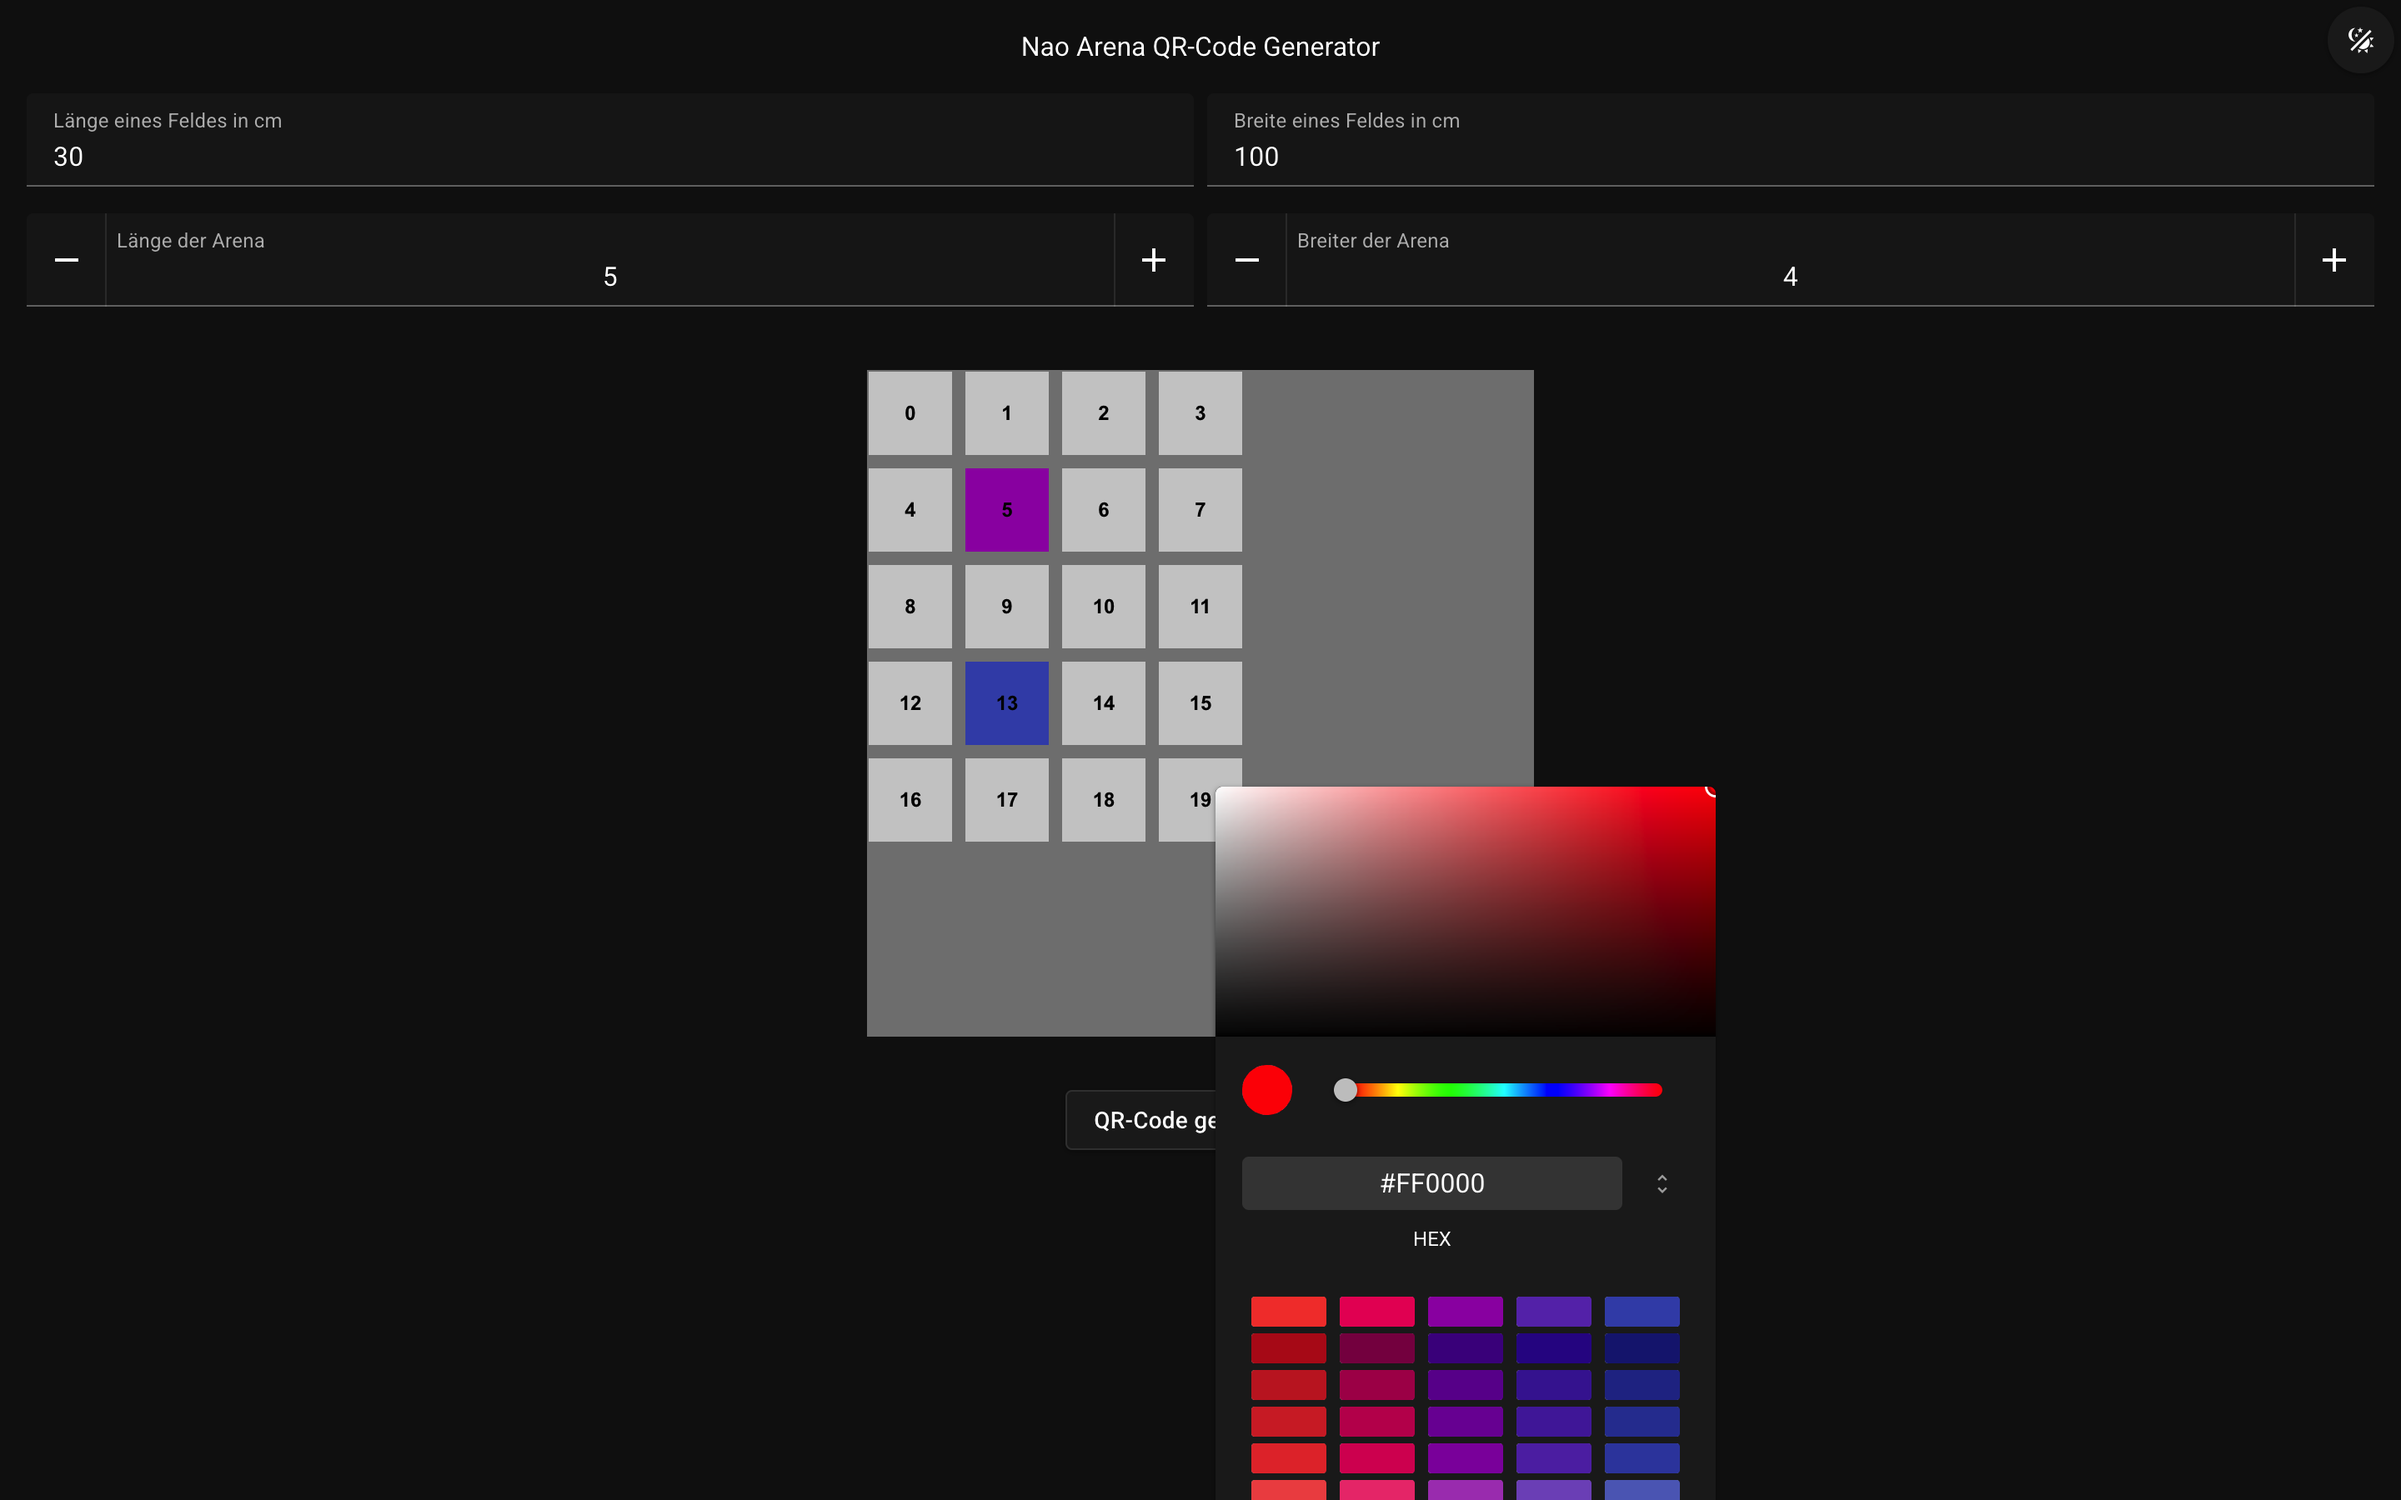
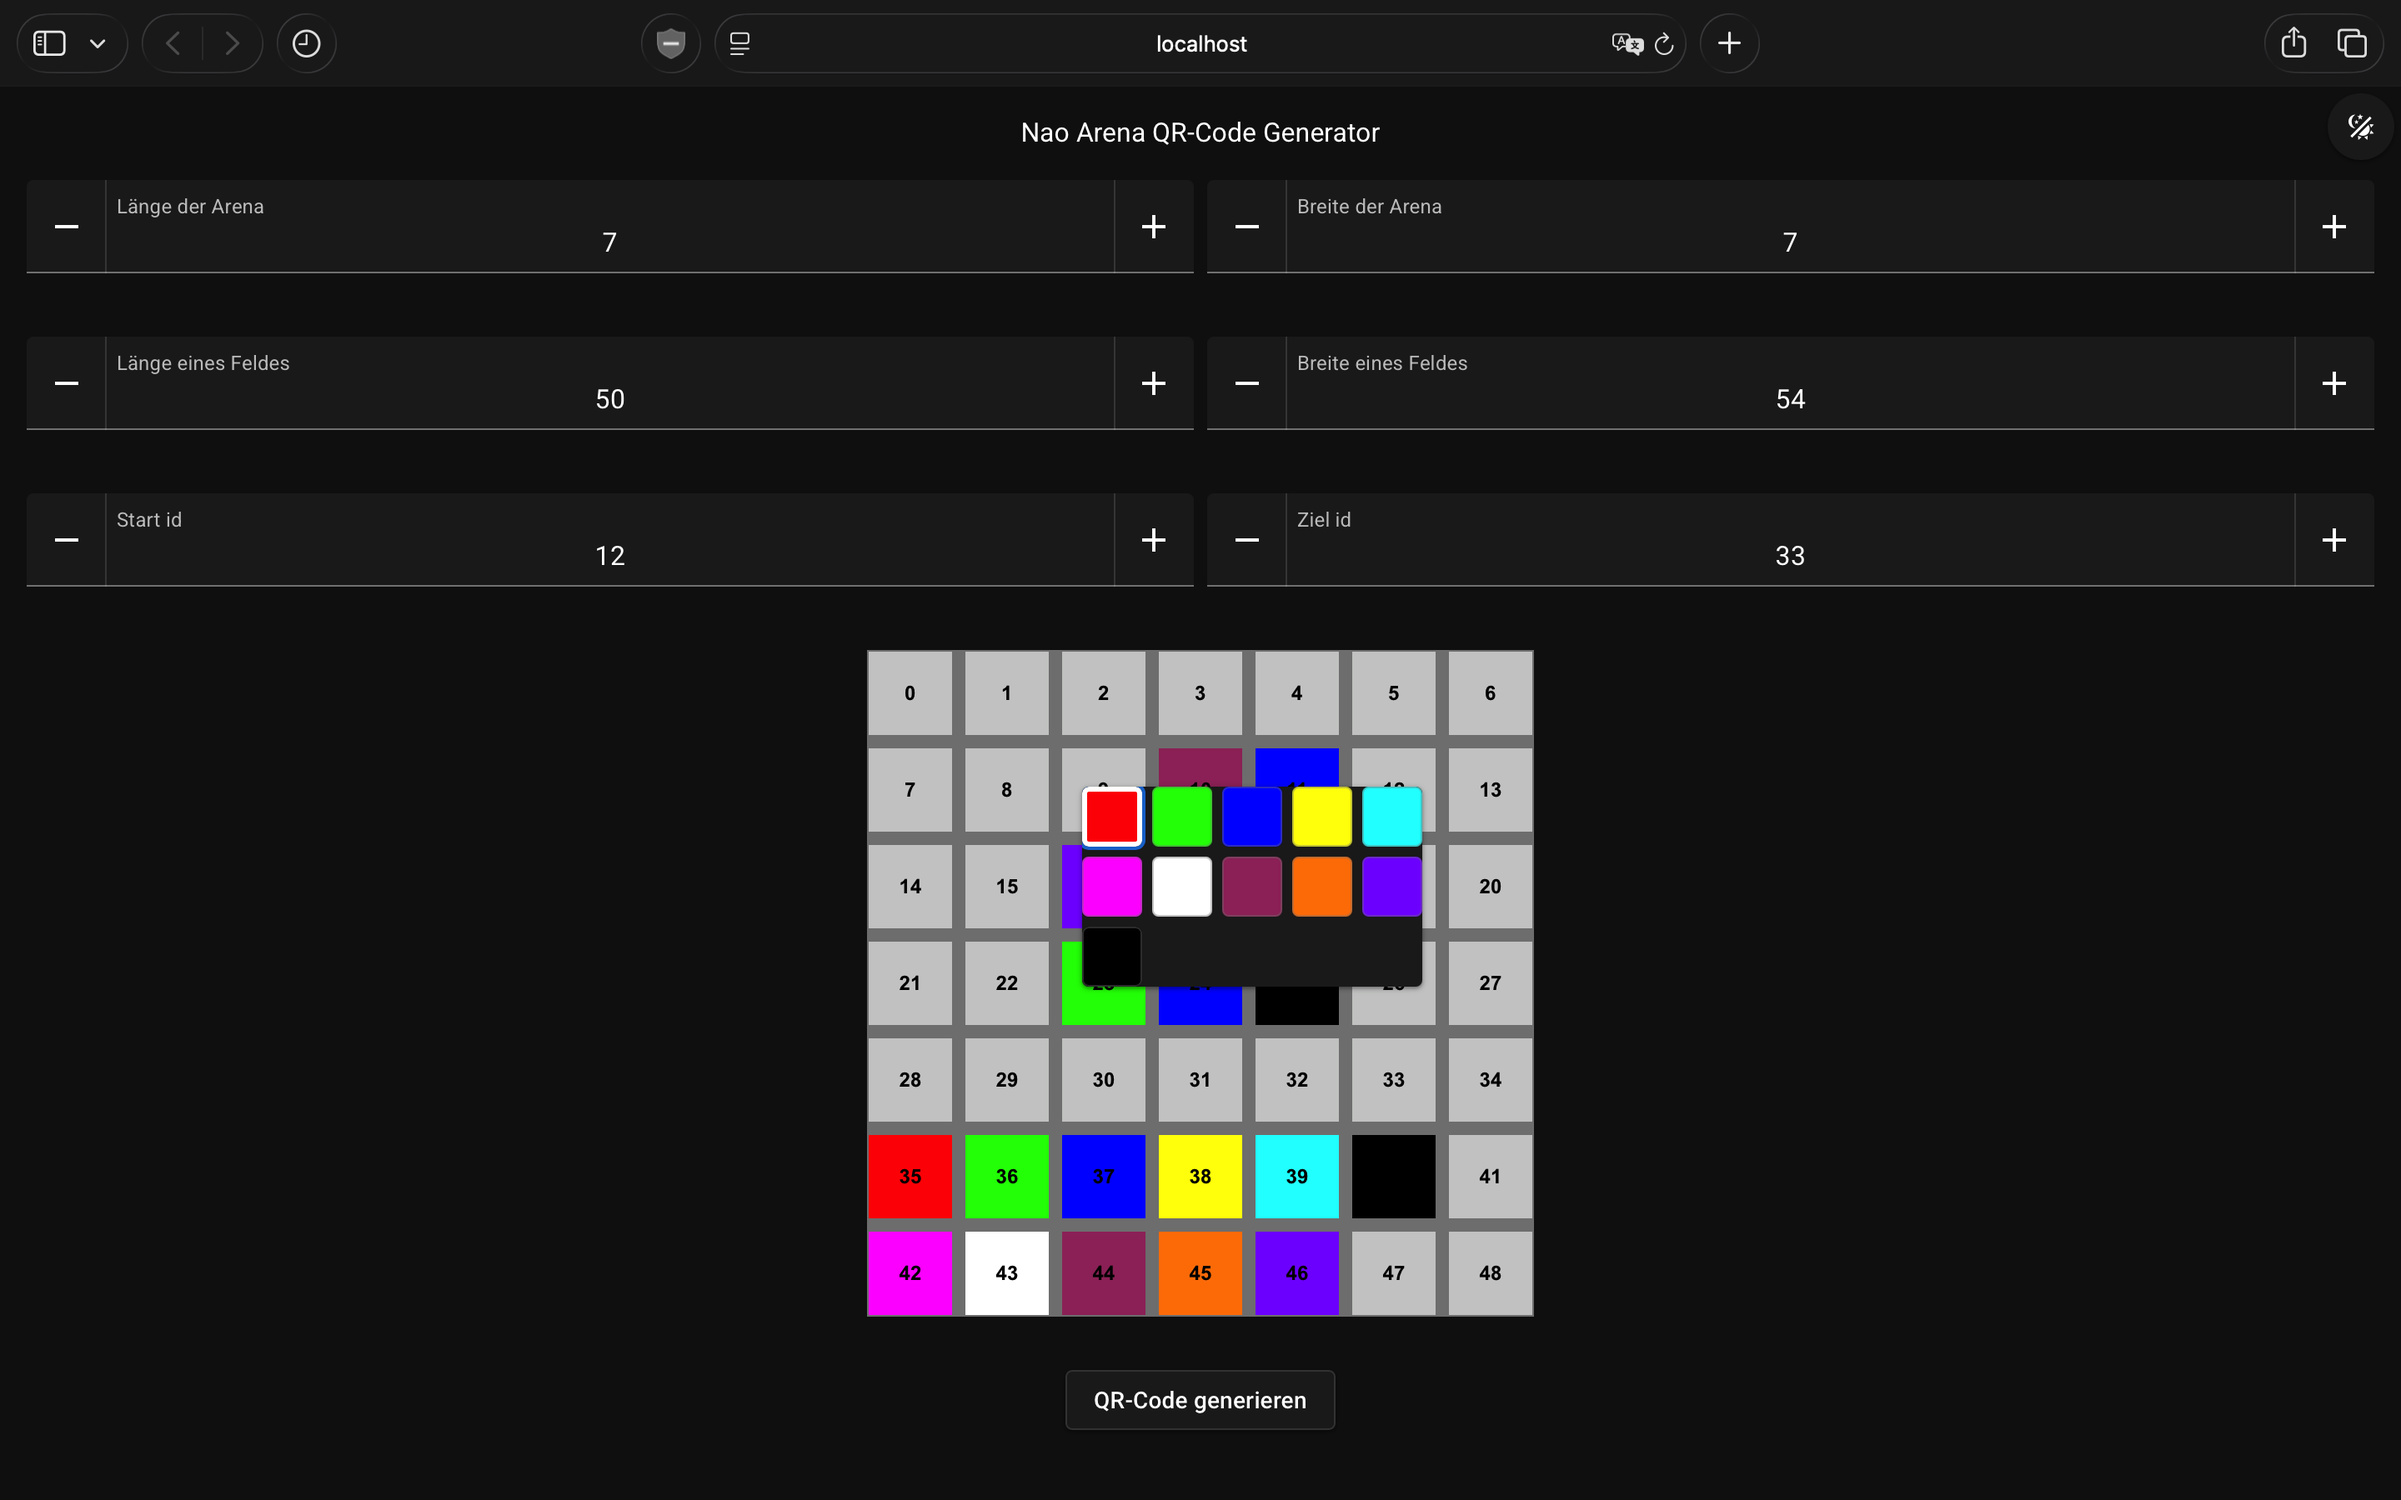
Readme anpassung und lut farb name

diff --git a/src/stores/useArenaStore.ts b/src/stores/useArenaStore.ts
@@ -17,7 +17,7 @@ const COLOR_LUT = [
   { idx: 4, name: 'Cyan',    hex: '#00FFFF' },
   { idx: 5, name: 'Magenta', hex: '#FF00FF' },
   { idx: 6, name: 'Weiß',    hex: '#FFFFFF' },
-  { idx: 7, name: 'Violet', hex: '#9d3368' },
+  { idx: 7, name: 'Magenta-Rot', hex: '#9d3368' },
   { idx: 8, name: 'Orange',  hex: '#FF8000' },
   { idx: 9, name: 'Lila',    hex: '#8000FF' },
   { idx: 10, name: 'Hindernis', hex: '#000000' },

diff --git a/README.md b/README.md
@@ -3,7 +3,6 @@
 Web-App zum Erstellen eines Arena-Rasters für NAO und zum Export der Konfiguration als QR-Code.
 
 ## Features
-
 - Frei einstellbare Arena-Größe (Zeilen x Spalten)
 - Feldmaße in cm (Länge/Breite pro Feld)
 - Farbzuweisung pro Zelle
@@ -101,7 +100,7 @@ Details siehe [QrCodeInterpretation.md](QrCodeInterpretation.md).
 | 4     | Cyan      | #00FFFF |
 | 5     | Magenta   | #FF00FF |
 | 6     | Weiß      | #FFFFFF |
-| 7     | Violet    | #9D3368 |
+| 7     | Magenta-Rot    | #9D3368 |
 | 8     | Orange    | #FF8000 |
 | 9     | Lila      | #8000FF |
 | 10    | Hindernis | #000000 |
